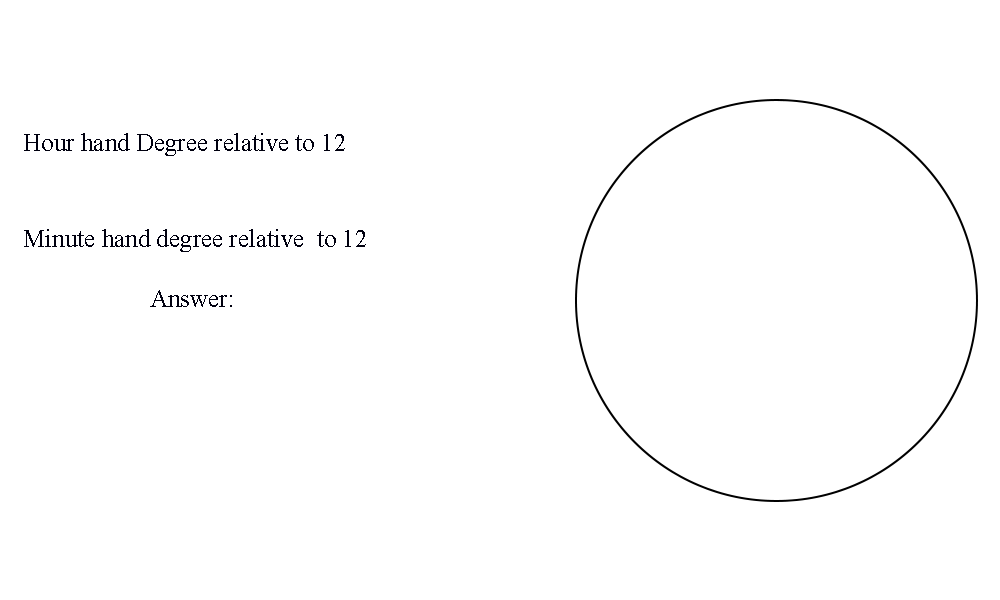
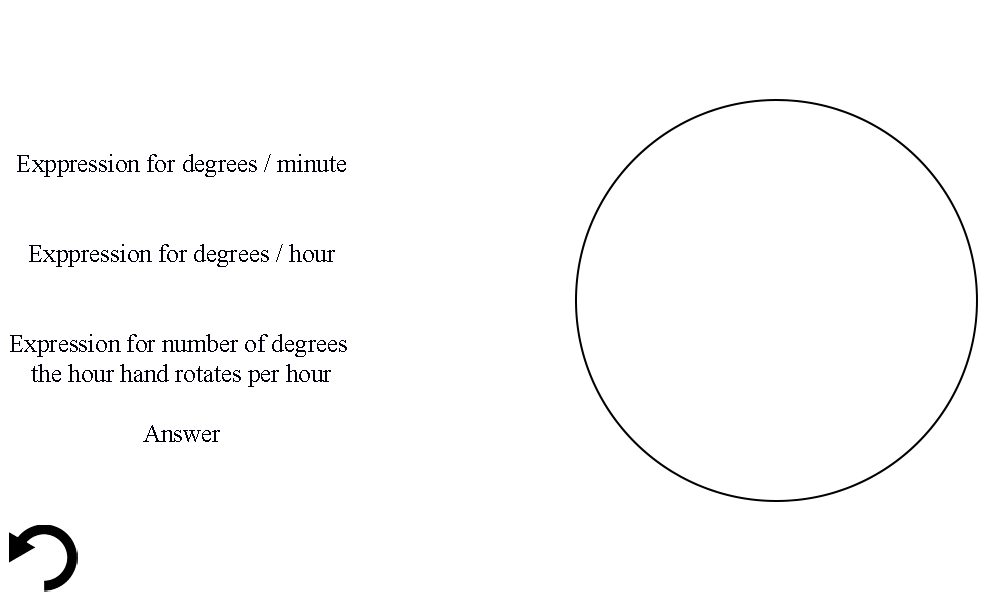
Working on degree mode. But other modes are finalized

diff --git a/src/Clock.java b/src/Clock.java
@@ -8,41 +8,67 @@ public class Clock {
 
     private int totalh, totalm, currentHours, currentMinutes, rate, diff;
     private double degreesPerMinute, degressPerHour, hourPerMinute;
+    private double[] rates;
 
-    private boolean isWhite;
+    private boolean isWhite, isDegrees;
 
-    public Clock(int totalm, int totalh, int currentMinutes, int currentHours) {
+    public Clock(int totalh, int totalm, int currentHours, int currentMinutes) {
         this.totalh = totalh;
         this.totalm = totalm;
         this.currentHours = currentHours;
         this.currentMinutes = currentMinutes;
-        setRates();
-
-    }
-    public Clock(int totalm, int totalh, int currentMinutes, int currentHours, String s) {
-        this.totalh = totalh;
-        this.totalm = totalm;
-        this.currentHours = currentHours;
-        this.currentMinutes = currentMinutes;
-        diff = Integer.parseInt(s);
+        rates = new double[3];
         setRates();
 
     }
 
-    public Clock(int totalm, int totalh, int currentMinutes, int currentHours, int rate) {
+//    public Clock(int totalm, int totalh, int currentMinutes, int currentHours, String s) {
+//        this.totalh = totalh;
+//        this.totalm = totalm;
+//        this.currentHours = currentHours;
+//        this.currentMinutes = currentMinutes;
+//        diff = Integer.parseInt(s);
+//        setRates();
+//
+//    }
+
+    public Clock(int totalh, int totalm, int currentHours, int currentMinutes, int rate) {
         this.totalh = totalh;
         this.totalm = totalm;
         this.currentHours = currentHours;
         this.currentMinutes = currentMinutes;
         this.rate = rate;
+        rates = new double[3];
         isWhite = true;
         setRates();
     }
 
     public void setRates() {
         degressPerHour = 360.0 / totalh;
+
         degreesPerMinute = 360.0 / totalm;
         hourPerMinute = degressPerHour / totalm;
+
+        rates[0] = degreesPerMinute;
+        rates[1] = degressPerHour;
+        rates[2] = hourPerMinute;
+        if (isWhite) {
+            rates[2] = hourPerMinute * rate / 100.0;
+        }
+    }
+
+    public double degrees() {
+        if (getInbetweenMinsSpider() < 0 && getInbetweenMinsSpider() > -90) {
+
+            double total = getOverlap();
+            total += diff / (degreesPerMinute - hourPerMinute);
+            return total;
+        } else if (getInbetweenMinsSpider() > 0 & getInbetweenMinsSpider() < 90) {
+            double total = getInbetweenMins();
+            total += (diff - total) / (degreesPerMinute - hourPerMinute);
+            return total;
+        }
+        return (getInbetweenMins() - diff) / (degreesPerMinute - hourPerMinute);
     }
 
     public double getInbetweenMins() {
@@ -54,7 +80,7 @@ public class Clock {
     }
 
     private double getInbetweenMinsSpider() {
-
+        isDegrees = true;
         double hPos = currentHours * degressPerHour + hourPerMinute * currentMinutes;
         double mPos = currentMinutes * degreesPerMinute;
         return hPos - mPos;
@@ -62,23 +88,21 @@ public class Clock {
     }
 
     public double getOverlap() {
+        isDegrees = false;
         return getInbetweenMins() / (degreesPerMinute - hourPerMinute);
-    }
 
+    }
 
     public double getSpider() {
         double diff = getInbetweenMinsSpider();
         if (diff >= 0) {
             return diff / (degreesPerMinute - (hourPerMinute * rate / 100.0));
         }
-        return  (360 + diff) / degreesPerMinute - (hourPerMinute * rate / 100.0);
+        return (360 + diff) / degreesPerMinute - (hourPerMinute * rate / 100.0);
     }
-//    public diff() {
-//        double ans1 = -1 * ((-diff - currentHours * degressPerHour) / (-1 * (currentMinutes * (degreesPerMinute - hourPerMinute)) - currentMinutes);
-//        double ans2 =
-//    }
 
-    public void draw(Graphics g, ClockProblemViewer c) {
+
+    public void draw(Graphics g) {
 
         Graphics2D g2d = (Graphics2D) g;
         if (isWhite) g.setColor(Color.WHITE);
@@ -98,8 +122,15 @@ public class Clock {
         g2d.fill(hh);
         g2d.setTransform(original);
 
-        Ellipse2D.Double middle = new Ellipse2D.Double(758.5, 285, 30, 30);
+        Ellipse2D.Double middle = new Ellipse2D.Double(766.5, 285, 30, 30);
         g2d.fill(middle);
+    }
+
+    public void printRate(Graphics g) {
+        int y = 175;
+        int x = 400;
+        for (int i = 0; i < 3; i++) g.drawString(String.format("%2f", rates[i]), x, y + i * 90);
+
     }
 
     public boolean isWhite() {
@@ -142,4 +173,11 @@ public class Clock {
         this.currentMinutes = currentMinutes;
     }
 
+    public boolean isDegrees() {
+        return isDegrees;
+    }
+
+    public void setDegrees(boolean degrees) {
+        isDegrees = degrees;
+    }
 }

diff --git a/src/ClockProblem.java b/src/ClockProblem.java
@@ -5,12 +5,13 @@ public class ClockProblem implements KeyListener, MouseListener, ActionListener 
 
     public final static Button UNDO = new Button(11, 526, 69, 67);
 
-    public final static Button[] OOB = new Button[]{new Button(10000, 10000, 0, 0)};
     private ClockProblemViewer window;
 
     private Screen root;
     private Screen currentScreen;
     private String input;
+
+
 
     public ClockProblem() {
         input = "";
@@ -96,7 +97,7 @@ public class ClockProblem implements KeyListener, MouseListener, ActionListener 
         s[0] = spider;
         warning.setS(s);
         bArr = new Button[1];
-        b = new Button(200, 500, 800, 100);
+        b = new Button(521, 560, 181, 50);
         bArr[0] = b;
         spider.setB(bArr);
 
@@ -258,6 +259,9 @@ public class ClockProblem implements KeyListener, MouseListener, ActionListener 
         }
         if (currentScreen == root.getS()[0].getS()[3].getS()[0].getS()[0]) {
             return c.getSpider();
+        }
+        if (currentScreen == root.getS()[0].getS()[1].getS()[0].getS()[0]) {
+            return c.degrees();
         }
         return 0;
     }

diff --git a/src/ClockProblemViewer.java b/src/ClockProblemViewer.java
@@ -25,8 +25,15 @@ public class ClockProblemViewer extends JFrame {
         if(c.getCurrentScreen().isLeaf() ) {
             Clock c = this.c.makeClock();
             if(c.isWhite()) g.setColor(Color.WHITE); else g.setColor(Color.BLACK);
-            g.drawString(String.format("%.2f", this.c.getVal(c)), 400, 300 );
-            c.draw(g,this);
+            g.drawString(String.format("%.2f", this.c.getVal(c)), 300, 440 );
+            c.draw(g);
+            c.printRate(g);
+            if(c.isDegrees()) {
+                g.drawString("degrees", 350,440);
+            }
+            else {
+                g.drawString("minutes", 350,440);
+            }
         }
         if(c.getCurrentScreen().getParent() == c.getRoot().getS()[0] || c.getRoot().getS()[0].getS()[3] == c.getCurrentScreen().getParent()) {
             int y = -10;
